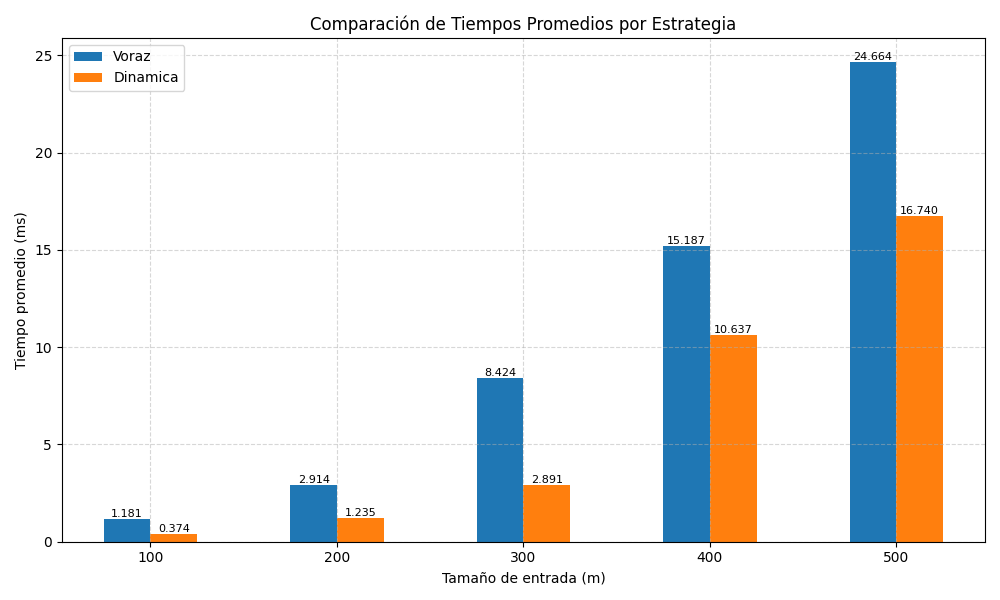
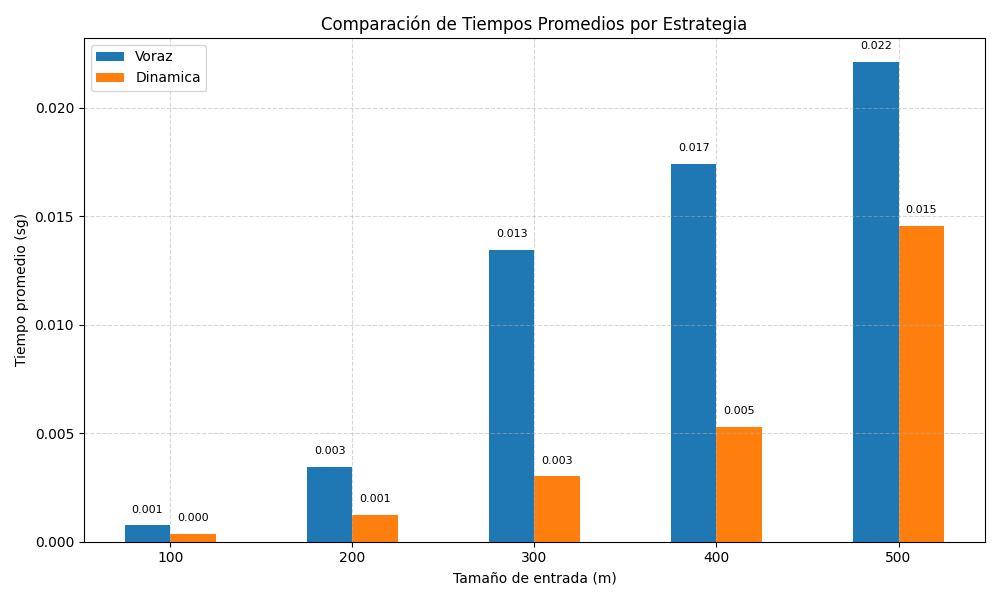
infrome problema 2

diff --git a/tests/test_ejercicio2.py b/tests/test_ejercicio2.py
@@ -28,13 +28,13 @@ class TestsFiestaCompania(unittest.TestCase):
         calificaciones = list(range(m))  # Datos correctos
         print(calificaciones)
 
-        # resultado_voraz = arbol_reglasSupervicion(m, grafo_10, calificaciones, "voraz")
+        resultado_voraz = arbol_reglasSupervicion(m, grafo_10, calificaciones, "voraz")
         #resultado_dinamica = arbol_reglasSupervicion(m, grafo_10, calificaciones, "dinamica")
-        resultado_bruta = arbol_reglasSupervicion(m, grafo_10, calificaciones, "bruta")
+        #resultado_bruta = arbol_reglasSupervicion(m, grafo_10, calificaciones, "bruta")
 
-        # self.assertTrue(validar_restricciones(m, grafo_10, resultado_voraz))
+        self.assertTrue(validar_restricciones(m, grafo_10, resultado_voraz))
         #self.assertTrue(validar_restricciones(m, grafo_10, resultado_dinamica))
-        self.assertTrue(validar_restricciones(m, grafo_10, resultado_bruta))
+        #self.assertTrue(validar_restricciones(m, grafo_10, resultado_bruta))
 
 
     def test_tamano_100(self):
@@ -43,11 +43,11 @@ class TestsFiestaCompania(unittest.TestCase):
             calificaciones = list(range(m))  # Datos correctos
             print(calificaciones)
 
-            resultado_voraz = arbol_reglasSupervicion(m, grafo_100, calificaciones, "voraz")
-            #resultado_dinamica = arbol_reglasSupervicion(m, grafo_100, calificaciones, "dinamica")
+            #resultado_voraz = arbol_reglasSupervicion(m, grafo_100, calificaciones, "voraz")
+            resultado_dinamica = arbol_reglasSupervicion(m, grafo_100, calificaciones, "dinamica")
 
-            self.assertTrue(validar_restricciones(m, grafo_100, resultado_voraz))
-            #self.assertTrue(validar_restricciones(m, grafo_100, resultado_dinamica))
+            #self.assertTrue(validar_restricciones(m, grafo_100, resultado_voraz))
+            self.assertTrue(validar_restricciones(m, grafo_100, resultado_dinamica))
 
     def test_tamano_1000(self):
         m = 1000
@@ -67,11 +67,11 @@ class TestsFiestaCompania(unittest.TestCase):
         calificaciones2 = list(range(m))
         print(calificaciones2)
 
-        # resultado_voraz = arbol_reglasSupervicion(m, grafo_10000, calificaciones2, "voraz")
-        resultado_dinamica = arbol_reglasSupervicion(m, grafo_10000, calificaciones2, "dinamica")
+        resultado_voraz = arbol_reglasSupervicion(m, grafo_10000, calificaciones2, "voraz")
+        #resultado_dinamica = arbol_reglasSupervicion(m, grafo_10000, calificaciones2, "dinamica")
 
-        # self.assertTrue(validar_restricciones(m, grafo_10000, resultado_voraz))
-        self.assertTrue(validar_restricciones(m, grafo_10000, resultado_dinamica))
+        self.assertTrue(validar_restricciones(m, grafo_10000, resultado_voraz))
+        #self.assertTrue(validar_restricciones(m, grafo_10000, resultado_dinamica))
 
     def test_tamano_50000(self):
         m = 50000

diff --git a/tiempos_ejecucion/tiempo_ejercicio2.py b/tiempos_ejecucion/tiempo_ejercicio2.py
@@ -34,7 +34,7 @@ def medir_tiempos():
                 end_time = time.perf_counter()
 
                 if validar_restricciones(t, grafo, resultado):
-                    suma += (end_time - start_time) * 1000
+                    suma += (end_time - start_time)
                     exitosas += 1
                 else:
                     print(f"Resultado inválido en {estrategia} con m={t}")
@@ -77,7 +77,7 @@ def graficas(resultados):
 
     # Etiquetas y detalles
     plt.xlabel("Tamaño de entrada (m)")
-    plt.ylabel("Tiempo promedio (ms)")
+    plt.ylabel("Tiempo promedio (sg)")
     plt.title("Comparación de Tiempos Promedios por Estrategia")
     plt.legend()
     plt.grid(True, linestyle='--', alpha=0.5)

diff --git a/docs/Informe2.md b/docs/Informe2.md
@@ -75,7 +75,7 @@ grandes tamaños de **`m`**. Se puede calcular con valores **`m < 50000`**.
 
 ## Algoritmo Voraz
 
-En el alogoritmo voraz se utilizo una estrategia que aunque no es inteligente y no considera todas las opciones 
+En el algoritmo voraz se utilizo una estrategia que aunque no es inteligente y no considera todas las opciones 
 como otros algoritmos, puede llegar a una solucion optima en un mejor tiempo que el de fuerza bruta. En este caso, 
 la estrategia que se utiliza es encontrar el maximo valor de calificación de un empleado en cada iteracion, 
 eliminando a su supervisor y subordinado de la lista de invitados, tambien se elimina el empleado que ya fue calculado 
@@ -95,6 +95,73 @@ Cuenta con una complejidad computacional de O(m<sup>2</sup>).
 Aunque es un algoritmo que no siempre garantiza una solución optima, puede recibir tamaños de entrada mas grandes 
 que el de fuerza bruta, por ende se puede calcular sus tiempos de ejecución efectivamente.
 
-## Tiempos de Ejecución vs
+## 4. Tiempos de Ejecución (vs)
+
+Se graficarón los tiempos de ejecucion de los algoritmos Voraz y Dinamico, donde cada barra representa un promedio 
+de la suma de tiempos que le tomo al algoritmo calcular cada tamaño 5 veces. 
+
 
 ![grafica tiempos de ejecución](/docs/images/Figure_1.png)
+
+    numero de repiticiones : 5
+    tamaños de entrada : 100, 200, 300, 400, 500
+
+### ¿Por que no se muestran los tiempos de ejecución del algirmto de fuerza bruta?
+
+No se grafica este algortimo porque al ser unos tamaño de entrada muy grandes, a el algoritmo le es imposible o 
+tarda mucho en construir la solucion.
+
+## 5. Tamaños de Entrada
+
+### a. Prueba de Juguete ( m = 10)}
+
+| Algoritmo    | Tiempo ejecución Test |
+|--------------|-----------------------|
+| Fuerza Bruta | 0.06 s                |
+| Dinámico     | 0.05 s                |
+| Voraz        | 0.07 s                |
+
+### b. Prueba de Pequeño ( m = 100)
+
+| Algoritmo    | Tiempo ejecución Test |
+|--------------|-----------------------|
+| Fuerza Bruta | inviable              |
+| Dinámico     | 0.16 s                |
+| Voraz        | 0.18 s                |
+
+### c. Prueba de Mediano ( m = 1000)
+
+| Algoritmo    | Tiempo ejecución Test |
+|--------------|-----------------------|
+| Fuerza Bruta | inviable              |
+| Dinámico     | 0.23 s                |
+| Voraz        | 0.22 s                |
+
+### d. Prueba de Grande ( m = 10000)
+
+| Algoritmo    | Tiempo ejecución Test |
+|--------------|-----------------------|
+| Fuerza Bruta | inviable              |
+| Dinámico     | 12.68 s               |
+| Voraz        | 19.96 s               |
+
+### E. Prueba de ExtraGrande ( m = 50000)
+
+| Algoritmo    | Tiempo ejecución Test  |
+|--------------|------------------------|
+| Fuerza Bruta | inviable               |
+| Dinámico     | memoryError / inviable |
+| Voraz        | memoryError / inviable |
+
+# 6. Tabla de Comparación complejidad temporal
+
+| Algoritmo    | O( )                              | observaciones                                                   |
+|--------------|-----------------------------------|-----------------------------------------------------------------|
+| Fuerza Bruta | O(m)                              | ineficiente con m < 20, pero garantiza solución optima          |
+| Dinámico     | O(2<sup>m</sup> * m <sup>2</sup>) | eficiente con m > 20, pero no siempre garantiza solucion optima |
+| Voraz        | O(m <sup>2</sup>)                 | eficiente con m > 20, siempre garantiza solución optima         |
+
+# 7. Conclusiones
+
+
+
